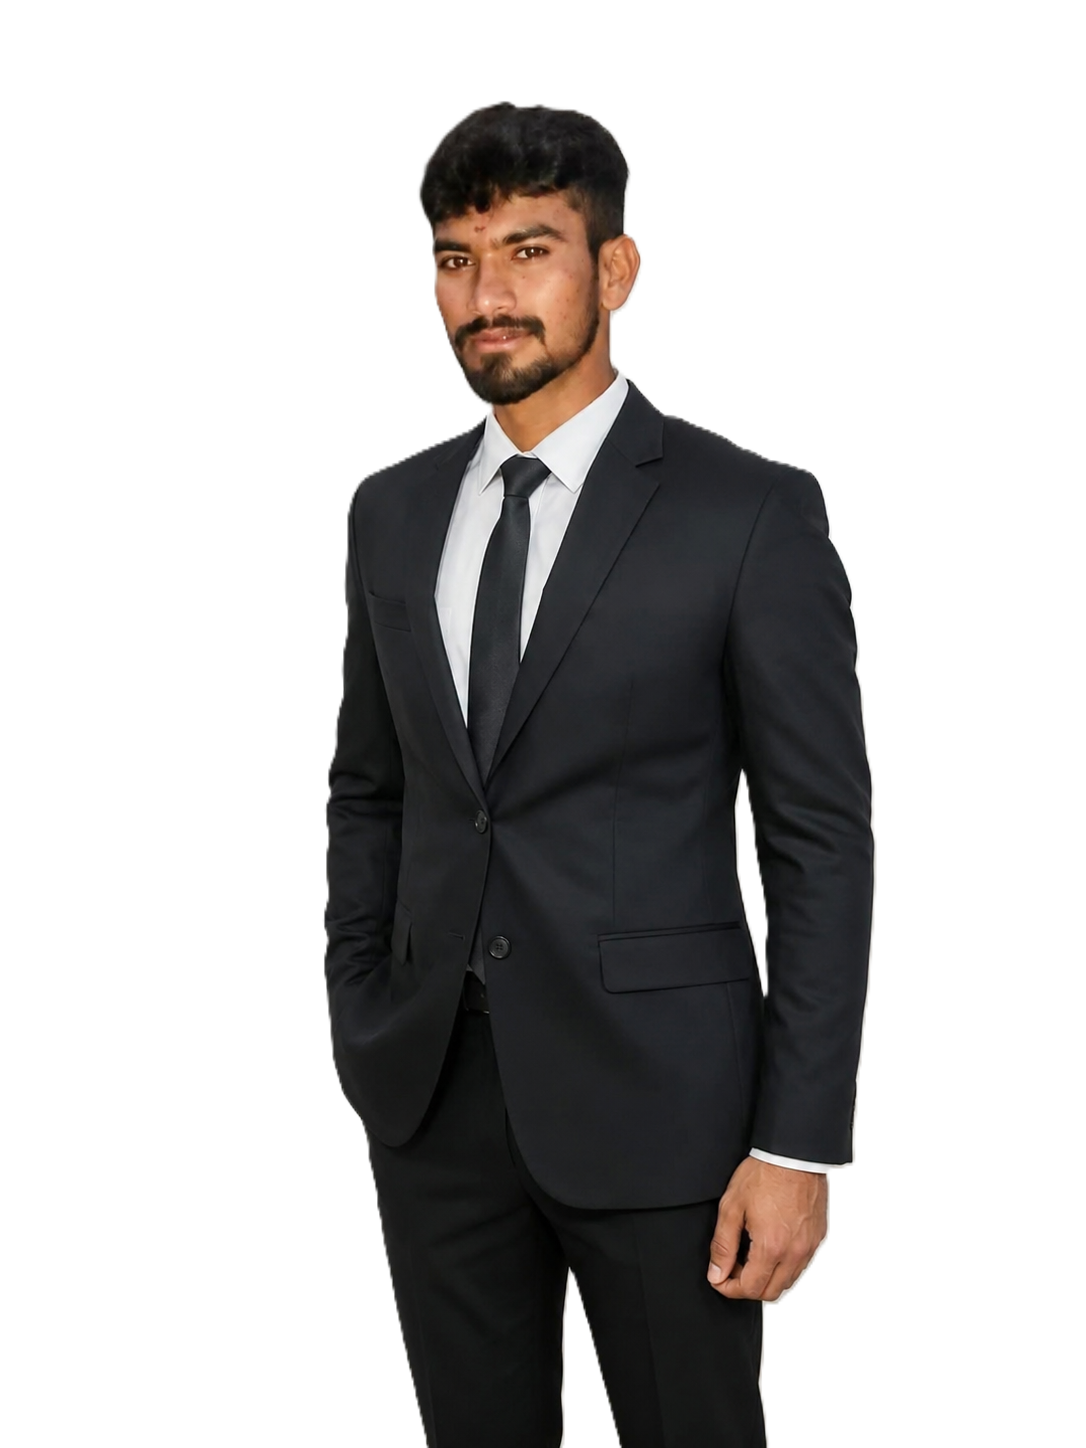
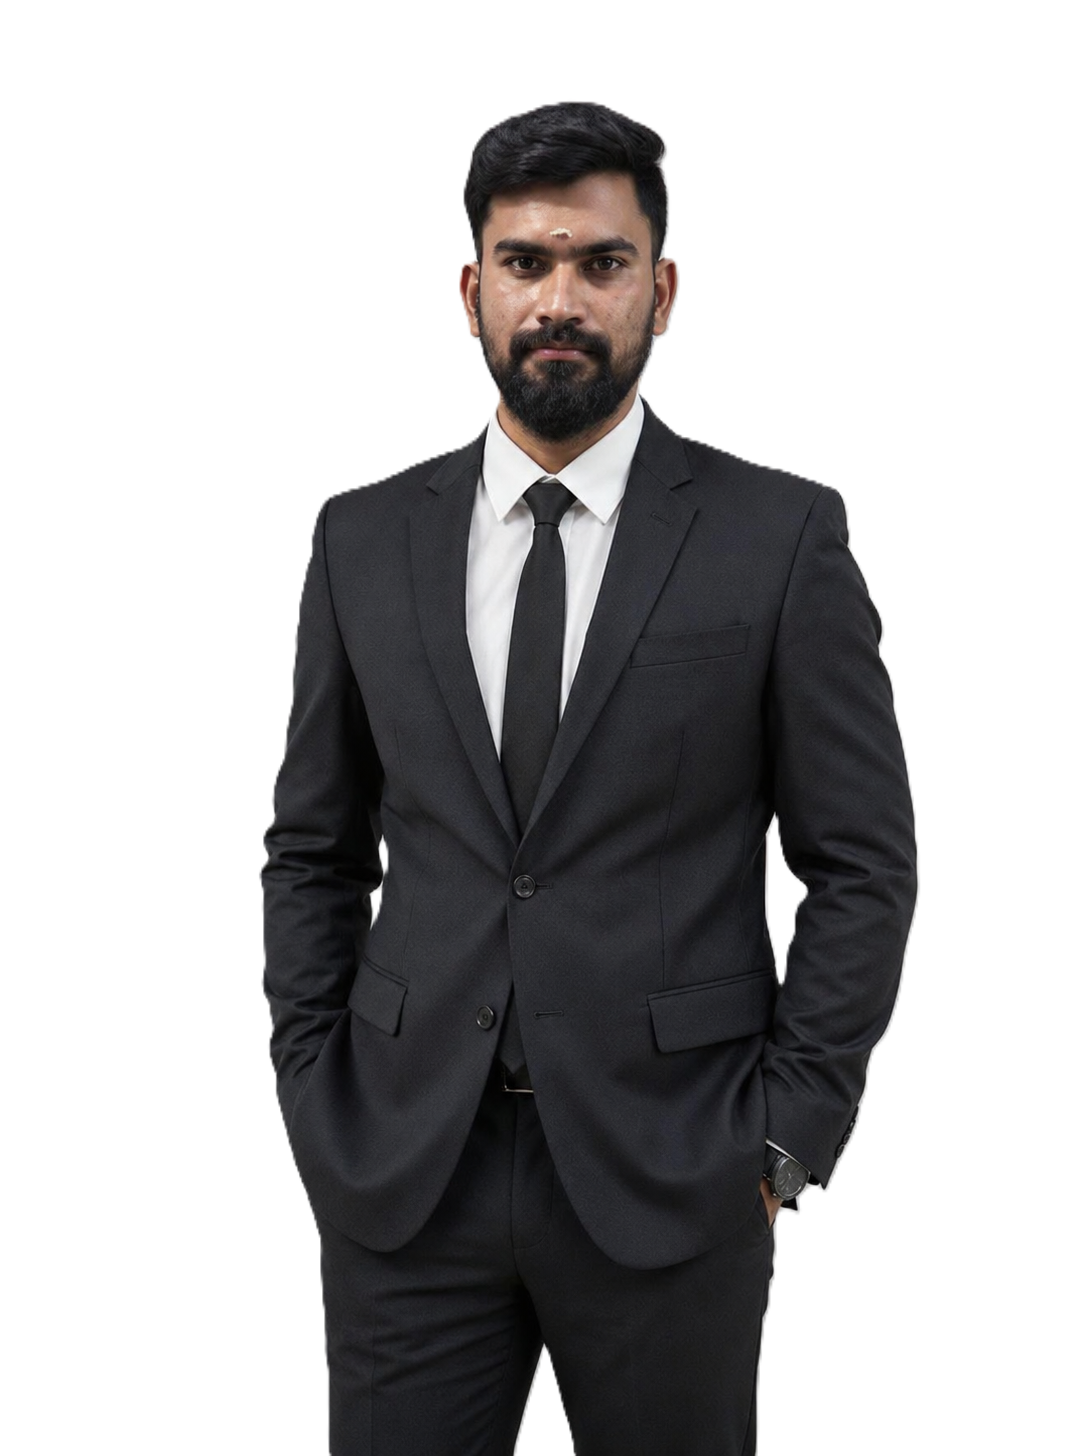
ui updates

diff --git a/src/components/sections/home/ContactSection.tsx b/src/components/sections/home/ContactSection.tsx
@@ -63,15 +63,15 @@ function LeftPanelIllustration() {
 
 // ---- Form schema ----
 const contactSchema = z.object({
-  name: z.string().min(2, "Name required"),
-  phone: z.string().min(10, "Valid phone required"),
-  pickup: z.string().min(2, "Pickup location required"),
-  drop: z.string().min(2, "Drop location required"),
-  date: z.string().regex(
+  name: z.string({ message: "Please enter your name" }).min(2, "Name is required"),
+  phone: z.string({ message: "Please enter your phone number" }).min(10, "Valid phone number required"),
+  pickup: z.string({ message: "Please enter a pickup location" }).min(2, "Pickup location is required"),
+  drop: z.string({ message: "Please enter a drop location" }).min(2, "Drop location is required"),
+  date: z.string({ message: "Please select a moving date" }).regex(
     /^(0[1-9]|[12][0-9]|3[01])\/(0[1-9]|1[0-2])\/\d{4}$/,
-    "Please enter a valid date"
+    "Please select a valid moving date"
   ),
-  serviceType: z.string().min(1, "Service type required"),
+  serviceType: z.string({ message: "Please select a service type" }).min(1, "Service type is required"),
   message: z.string().optional(),
 });
 

diff --git a/src/lib/utils.ts b/src/lib/utils.ts
@@ -9,7 +9,18 @@ export function formatTelLink(phone: string) {
   return `tel:${phone.replace(/\s+/g, "")}`;
 }
 
-export function buildMovingWhatsAppLink(phone: string, text: string = "Hi, I need a quotation for moving services.") {
+const defaultWhatsAppMessage = `Hi Rudra Dharun Packers and Movers,
+
+I need a quotation for moving services.
+
+Please share:
+• Pricing
+• Services included
+• Availability
+
+Thank you.`;
+
+export function buildMovingWhatsAppLink(phone: string, text: string = defaultWhatsAppMessage) {
   const cleanPhone = phone.replace(/\D/g, "");
   return `https://wa.me/${cleanPhone}?text=${encodeURIComponent(text)}`;
 }

diff --git a/src/components/sections/home/HeroSection.tsx b/src/components/sections/home/HeroSection.tsx
@@ -47,13 +47,13 @@ function WhatsAppIcon({ className }: { className?: string }) {
 
 // ---- Form Schema ----
 const quoteSchema = z.object({
-  name: z.string().min(2, "Name is required"),
-  phone: z.string().min(10, "Valid phone number required"),
-  movingFrom: z.string().min(2, "Moving From is required"),
-  movingTo: z.string().min(2, "Moving To is required"),
-  movingDate: z.string().regex(
+  name: z.string({ message: "Please enter your name" }).min(2, "Name is required"),
+  phone: z.string({ message: "Please enter your phone number" }).min(10, "Valid phone number required"),
+  movingFrom: z.string({ message: "Please enter a pickup location" }).min(2, "Pickup location is required"),
+  movingTo: z.string({ message: "Please enter a drop location" }).min(2, "Drop location is required"),
+  movingDate: z.string({ message: "Please select a moving date" }).regex(
     /^(0[1-9]|[12][0-9]|3[01])\/(0[1-9]|1[0-2])\/\d{4}$/,
-    "Please enter a valid date"
+    "Please select a valid moving date"
   ),
 });
 

diff --git a/src/services/locationSearch.ts b/src/services/locationSearch.ts
@@ -169,9 +169,17 @@ export async function searchLocations(
   try {
     const results = await provider.search(query, signal);
     
-    // Combine local results and API results, removing duplicates by shortName
+    // Combine local results and API results
     const combined = [...localResults, ...results];
-    const unique = Array.from(new Map(combined.map(item => [item.shortName, item])).values());
+    
+    // Remove duplicates by shortName, keeping the first occurrence (which prioritizes localResults)
+    const uniqueMap = new Map<string, LocationSuggestion>();
+    for (const item of combined) {
+      if (!uniqueMap.has(item.shortName)) {
+        uniqueMap.set(item.shortName, item);
+      }
+    }
+    const unique = Array.from(uniqueMap.values());
     
     setCache(cacheKey, unique);
     return unique;

diff --git a/src/data/localLocations.ts b/src/data/localLocations.ts
@@ -93,4 +93,13 @@ export const localLocations: LocationSuggestion[] = [
     lat: "8.7642",
     lon: "78.1348",
   },
+  {
+    id: "local-pattamadai",
+    displayName: "Pattamadai, Tirunelveli, Tamil Nadu, India",
+    shortName: "Pattamadai",
+    secondaryName: "Tamil Nadu",
+    type: "town",
+    lat: "8.6698",
+    lon: "77.5806",
+  },
 ];

diff --git a/src/data/business.ts b/src/data/business.ts
@@ -5,11 +5,11 @@ export const BUSINESS = {
   whatsapp: "+91 8925310877",
   email: "[email redacted]",
   address: {
-    full: "Coimbatore, Tamil Nadu, India",
-    street: "123 Logistics Park",
+    full: "4/20, Murugan Nagar, Kavundampalayam, Coimbatore - 30",
+    street: "4/20, Murugan Nagar, Kavundampalayam",
     city: "Coimbatore",
     state: "Tamil Nadu",
-    zip: "641001",
+    zip: "641030",
     country: "IN",
   },
   workingHours: {

diff --git a/src/components/sections/about/CompanyStorySection.tsx b/src/components/sections/about/CompanyStorySection.tsx
@@ -70,6 +70,8 @@ export function CompanyStorySection() {
                 <Image
                   src={companyStory.founderImage}
                   fill
+                  quality={100}
+                  priority
                   sizes="(max-width: 1024px) 100vw, 50vw"
                   className="object-contain object-top"
                   alt={`${companyStory.founderName} – ${companyStory.founderTitle}`}

diff --git a/src/data/about.ts b/src/data/about.ts
@@ -50,7 +50,7 @@ export const companyStory = {
   ],
   founderName: "Mr. Karthik",
   founderTitle: "Founder & Director",
-  founderImage: "/founder1.png",
+  founderImage: "/founder.png",
 };
 
 // ---- Stats ----

diff --git a/src/data/services.ts b/src/data/services.ts
@@ -23,7 +23,7 @@ export const SERVICES: ServiceItem[] = [
     shortDescription: "Complete home relocation with expert packing & care.",
     icon: "Home",
     image:
-      "/packersandmovers5.png",
+      "/packersandmovers30.png",
     imageAlt: "Professional household shifting service",
     href: "/services#household-shifting",
     colorVariant: "blue",